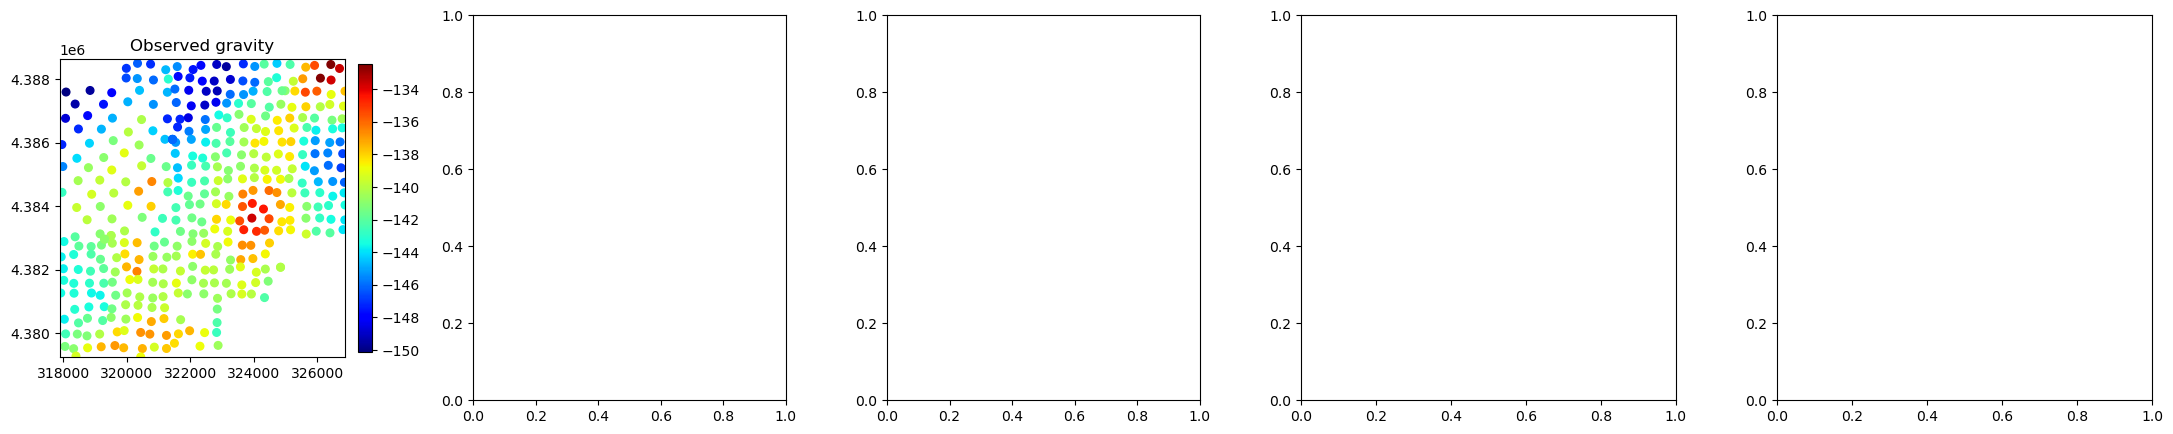
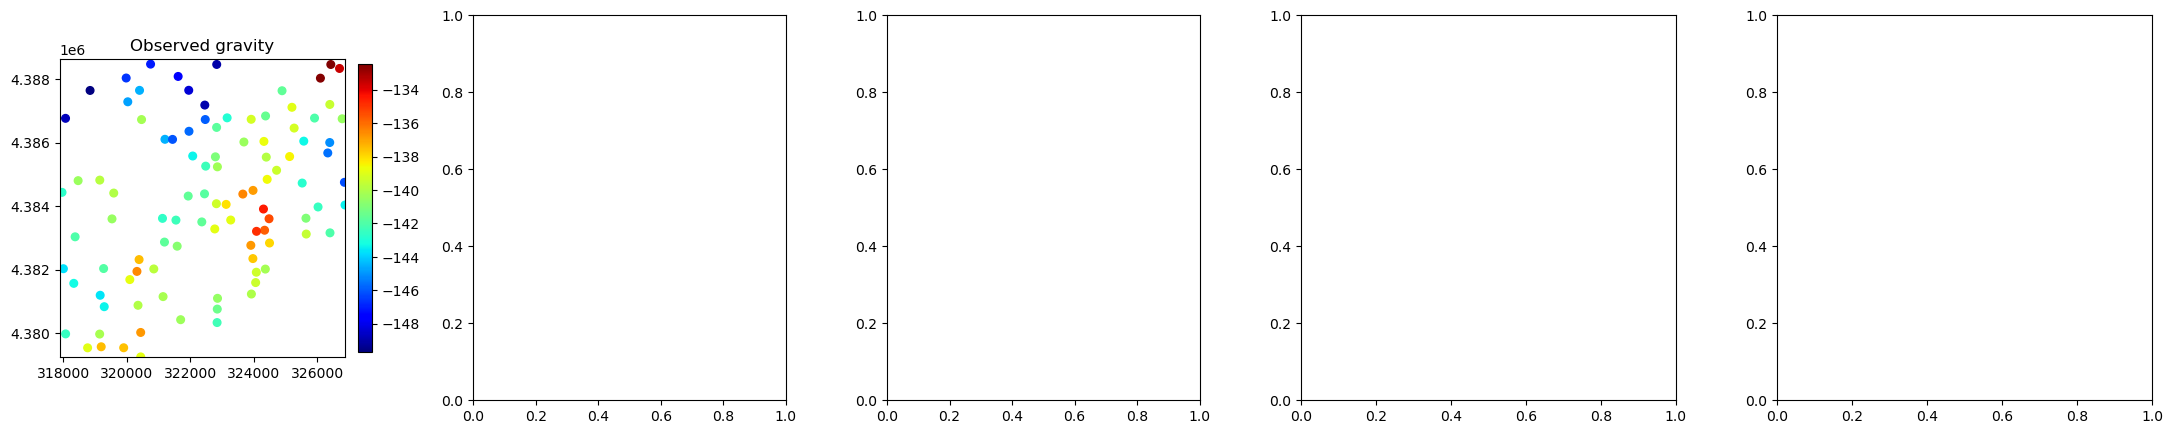
modify model range

diff --git a/Patua.py b/Patua.py
@@ -17,8 +17,9 @@ class PutuaModel():
         self.P['HypP']['ErrorType'] = 'Global'
         self.P['DataTypes'] = ['Grav']
 
-        self.P['xy_origin']=[317883,4379246, 1200-4000]
-        self.P['xy_extent'] = [9000,9400,4000]
+        self.P['xy_origin']=[318000,4379246, 1200-4000]
+        self.P['xy_extent'] = [7000,9000,4000]
+        # self.P['xy_extent'] = [9000,9400,4000]
 
         # Define the model limits
         self.P['xmin'] = self.P['xy_origin'][0]

diff --git a/PrepareData.py b/PrepareData.py
@@ -141,7 +141,7 @@ for index, row in fault_df.iterrows():
 # %%
 # Intrusion
 intrusion_data_df = pd.DataFrame(columns=['X','Y','Z','azimuth','dip','polarity','formation'])
-intrusion_center = [P['xmin']+7450,P['ymin']+3480,P['zmax'] - 2000]
+intrusion_center = [P['xmin']+6000,P['ymin']+3480,P['zmax'] - 2000]
 intrusion_radius = 400
 
 azimuth_dict = {'south': 180,
